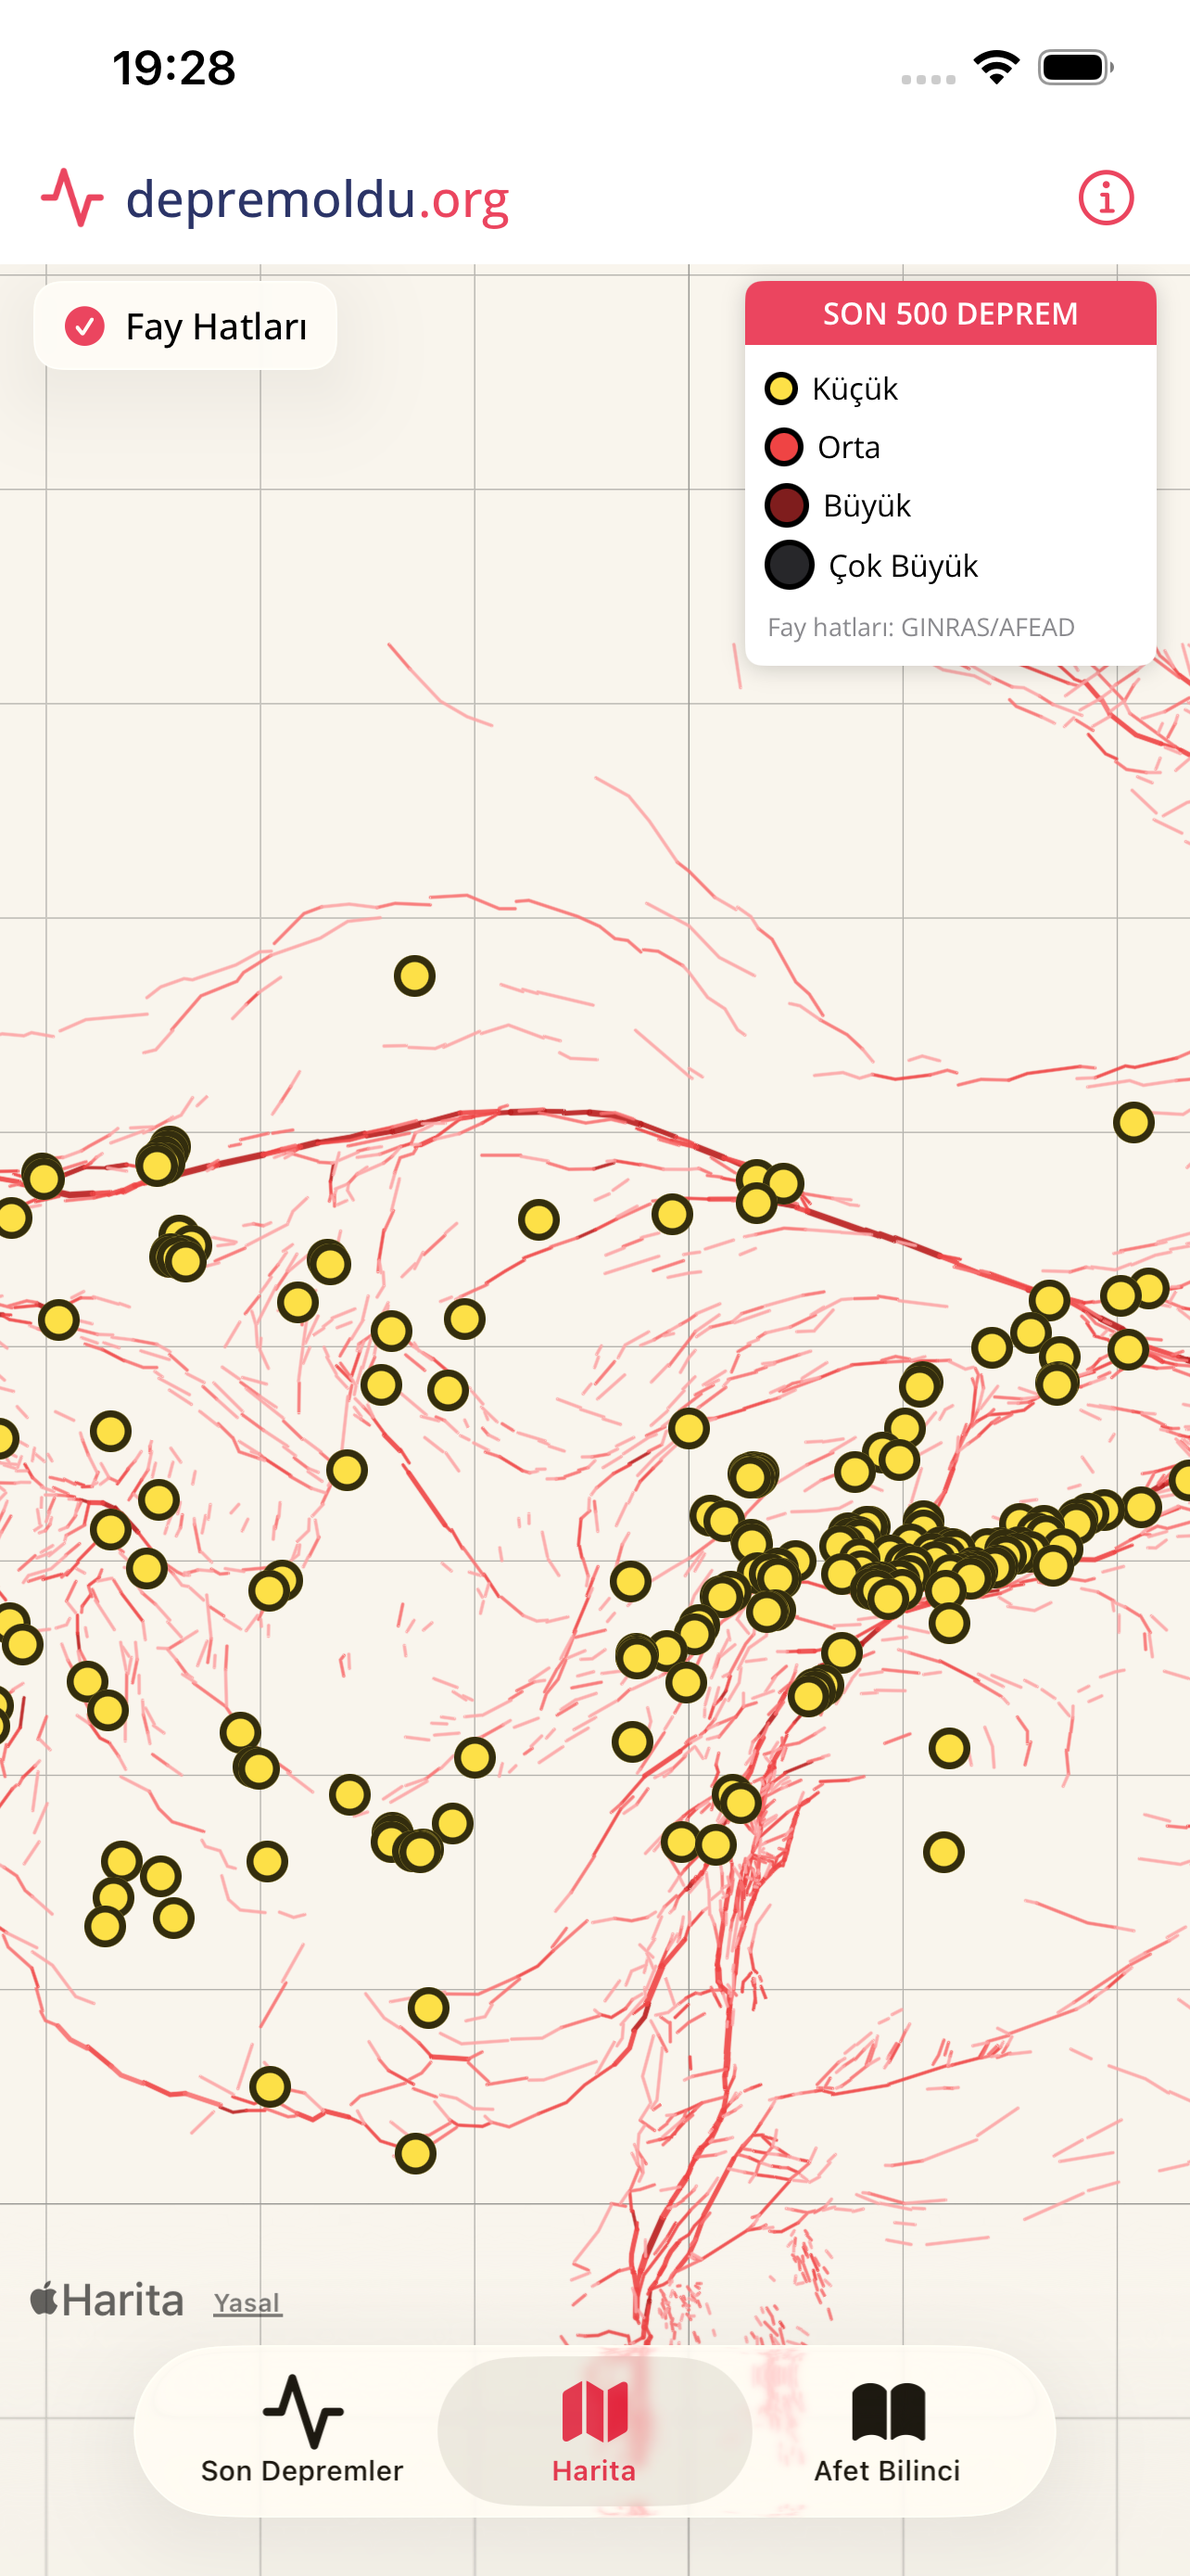
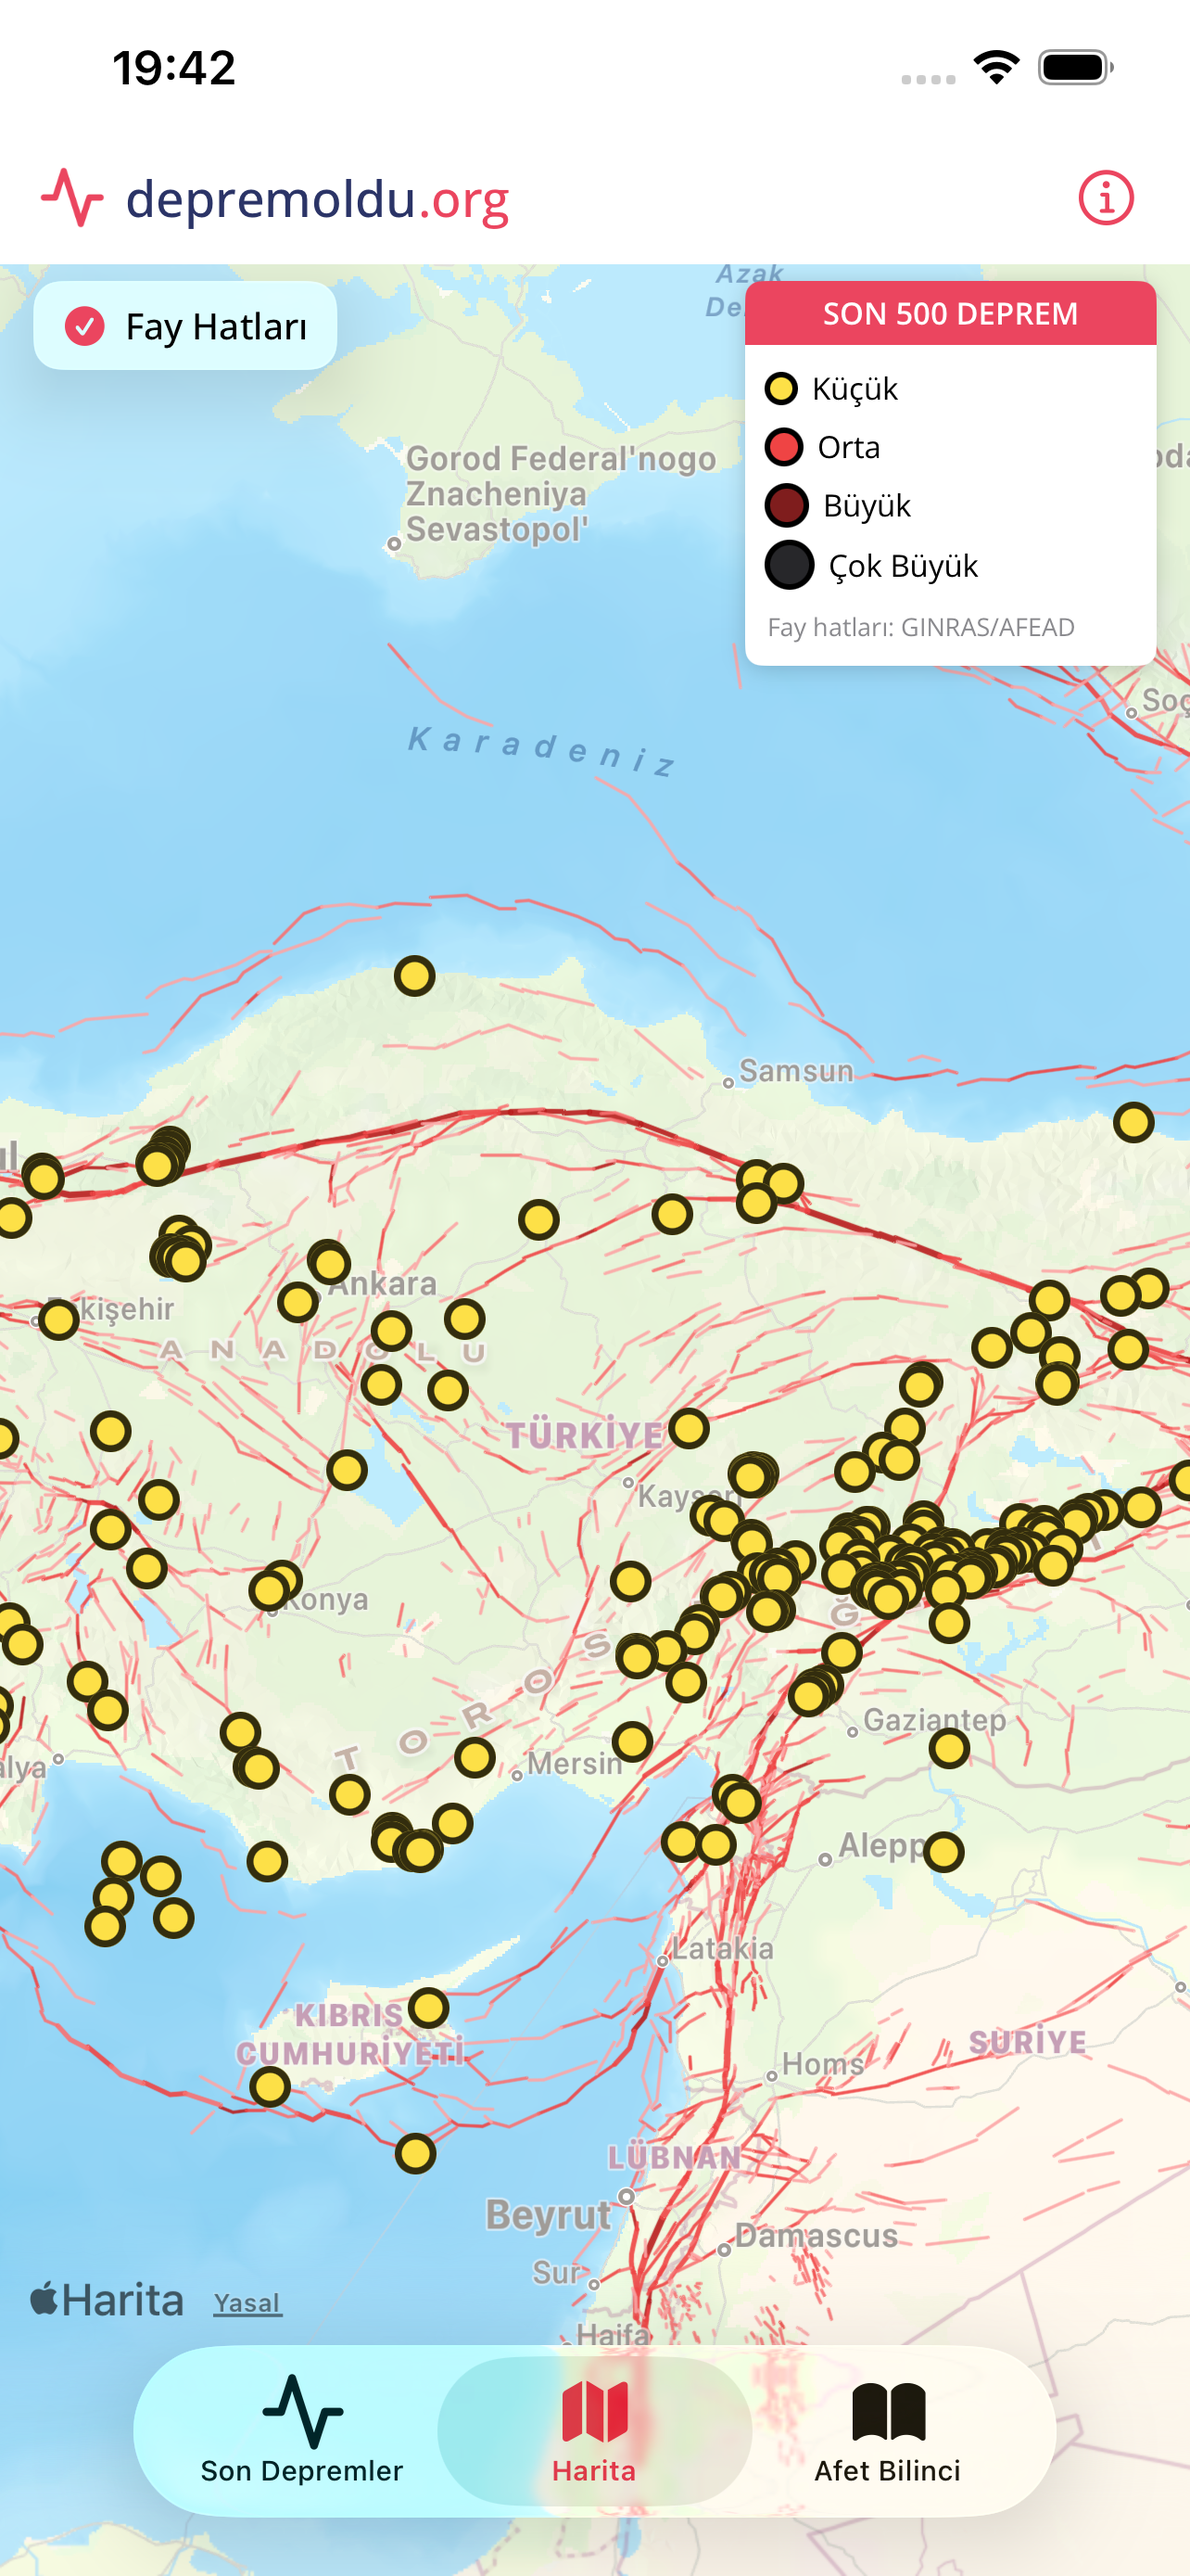
docs: refresh 6.5-inch screenshots with loaded map tiles; record build 2 acceptance

diff --git a/Tests/DepremOlduAppUITests/StoreScreenshotCaptureTests.swift b/Tests/DepremOlduAppUITests/StoreScreenshotCaptureTests.swift
@@ -21,7 +21,6 @@ final class StoreScreenshotCaptureTests: XCTestCase {
             ProcessInfo.processInfo.environment["CAPTURE_STORE_SCREENSHOTS"] == "1",
             "Set CAPTURE_STORE_SCREENSHOTS=1 to capture App Store screenshots."
         )
-
         let app = XCUIApplication()
         app.launchArguments = ["-depremoldu-ui-live"]
         app.launch()
@@ -34,6 +33,7 @@ final class StoreScreenshotCaptureTests: XCTestCase {
         capture(app, "01-list")
 
         app.tabBars.buttons["Harita"].tap()
+        sleep(6)
         let toggle = app.buttons["map.fault-toggle"]
         XCTAssertTrue(toggle.waitForExistence(timeout: 20))
         var attempts = 0
@@ -42,7 +42,7 @@ final class StoreScreenshotCaptureTests: XCTestCase {
             attempts += 1
         }
         toggle.tap()
-        sleep(5)
+        sleep(18)
         capture(app, "02-map-faults")
 
         app.tabBars.buttons["Son Depremler"].tap()
@@ -62,7 +62,7 @@ final class StoreScreenshotCaptureTests: XCTestCase {
 
         app.tabBars.buttons["Son Depremler"].tap()
         app.buttons["Hakkında"].tap()
-        XCTAssertTrue(app.navigationBars["Hakkında"].waitForExistence(timeout: 10))
+        _ = app.navigationBars["Hakkında"].waitForExistence(timeout: 20)
         sleep(1)
         capture(app, "05-about")
     }

diff --git a/docs/CURRENT_STATE.md b/docs/CURRENT_STATE.md
@@ -22,7 +22,8 @@ Fiziksel kabul öncesi ürün geri bildirimleri uygulandı: yalnız açık mod, 
 ## TestFlight (internal) kaydı
 
 - 2026-09-12: `1.0.0` (build 1), `test` @ `7a486a9` kaynağından App Store Connect'e yüklendi; paket processing. Ayrıntı: [docs/releases/1.0.0-testflight.md](releases/1.0.0-testflight.md).
-- 2026-09-12: Ürün sahibi internal TestFlight kabulünü verdi (sorun yok). `test -> main` promotion yapıldı; repo açık kaynak (public) yayınlandı ve uygulama GitHub bağlantısı `bedirdemir/depremoldu-ios` oldu. Build `1.0.0 (2)` TestFlight'a yüklendi; App Store gönderimi için metadata/ekran görüntüleri hazır: [docs/appstore/metadata-1.0.0.md](appstore/metadata-1.0.0.md). Gizlilik: `https://depremoldu.org/gizlilik`. App Store Connect formu ve gönderim kullanıcı adımıdır.
+- 2026-09-12: Build `1.0.0 (2)` (açık kaynak repo bağlantısı revizyonu) TestFlight'ta ürün sahibi tarafından kabul edildi (sorun yok). `test -> main` promotion tamamlandı ve final `v1.0.0` tag'i oluşturuldu.
+- App Store gönderimi için her şey hazır: metadata + 6.5" ekran görüntüleri (`docs/appstore/`, 1284×2778; harita karesi tam yüklenmiş olarak yeniden çekildi), gizlilik URL'si `https://depremoldu.org/gizlilik`, upload edilmiş build `1.0.0 (2)`. **App Store Connect formu ve Submit adımı kullanıcıya aittir.**
 
 ## Bekleyen insan kabulü
 
